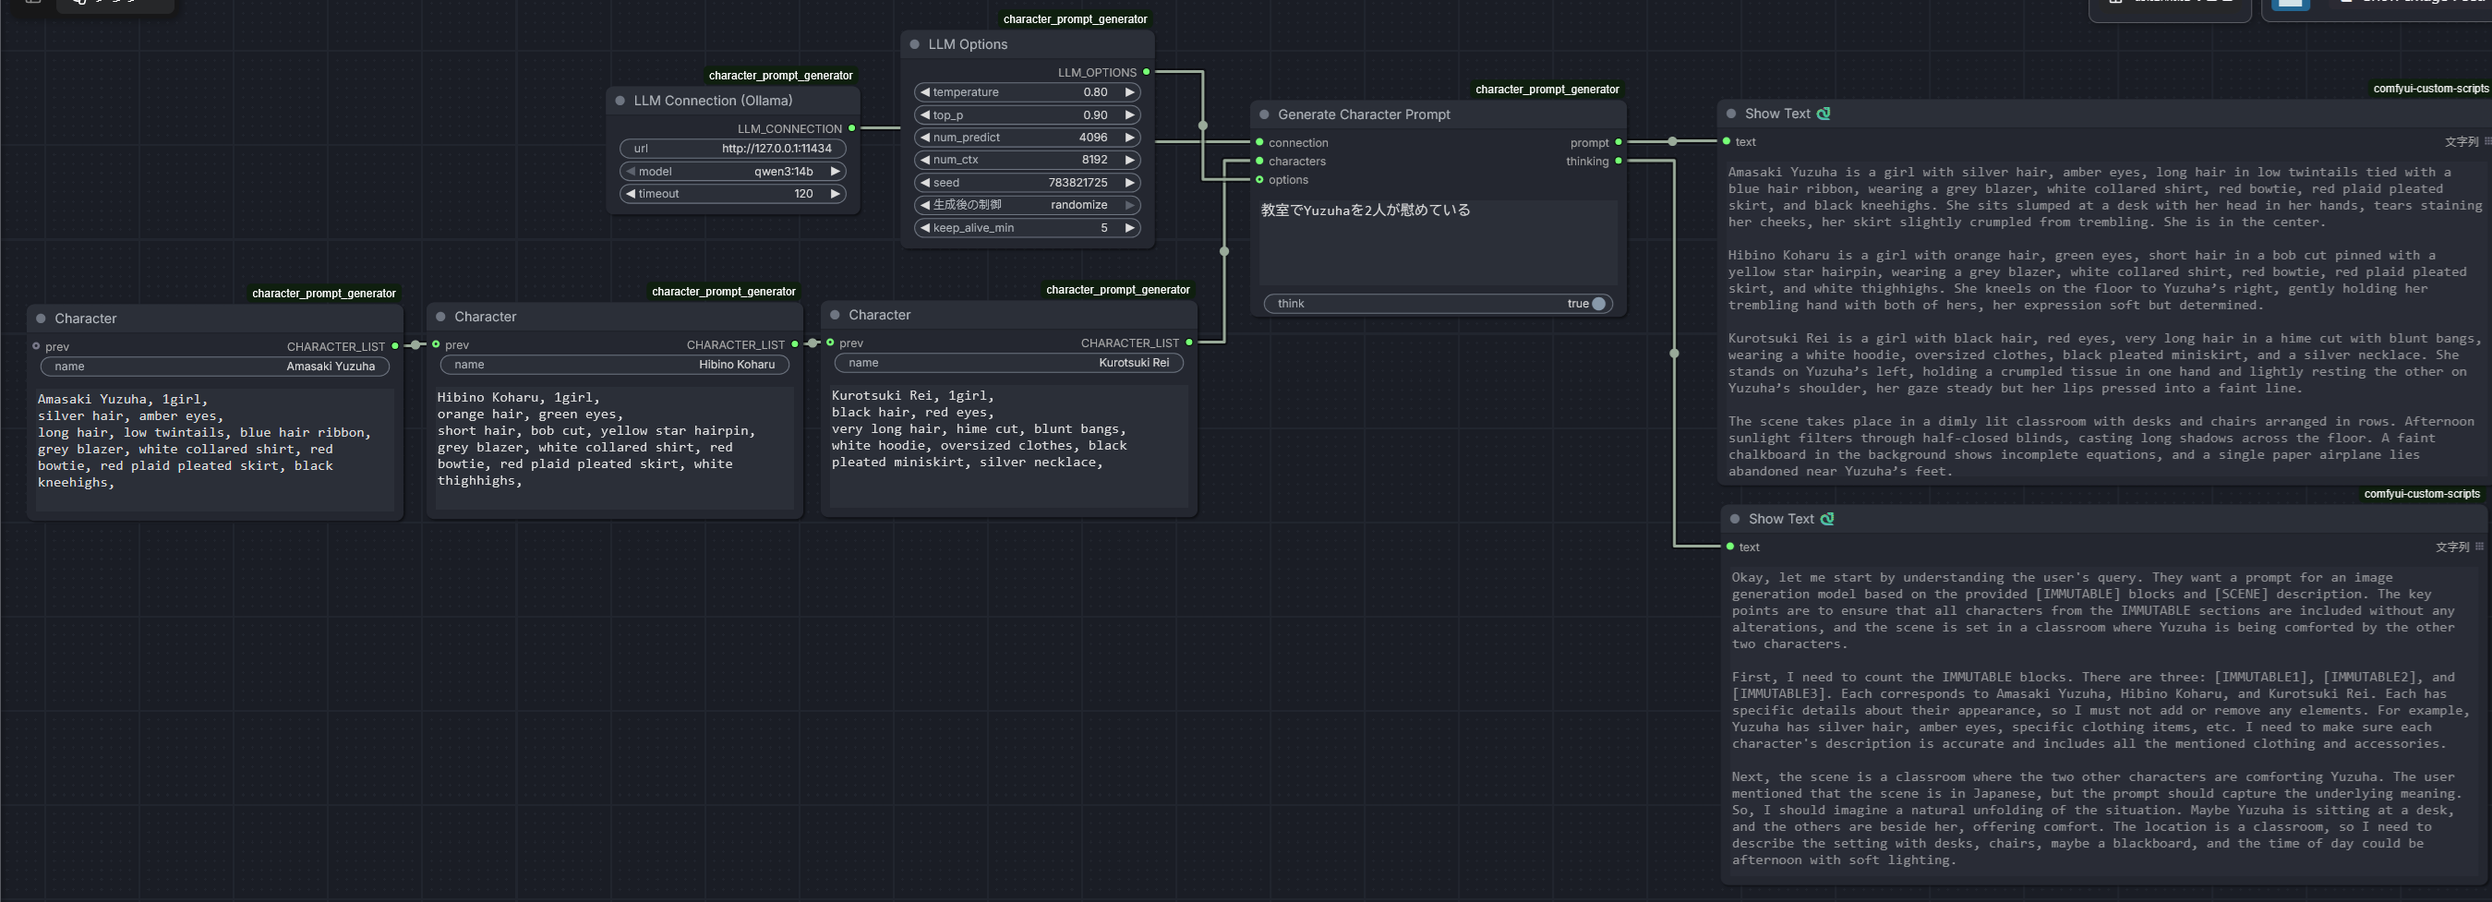
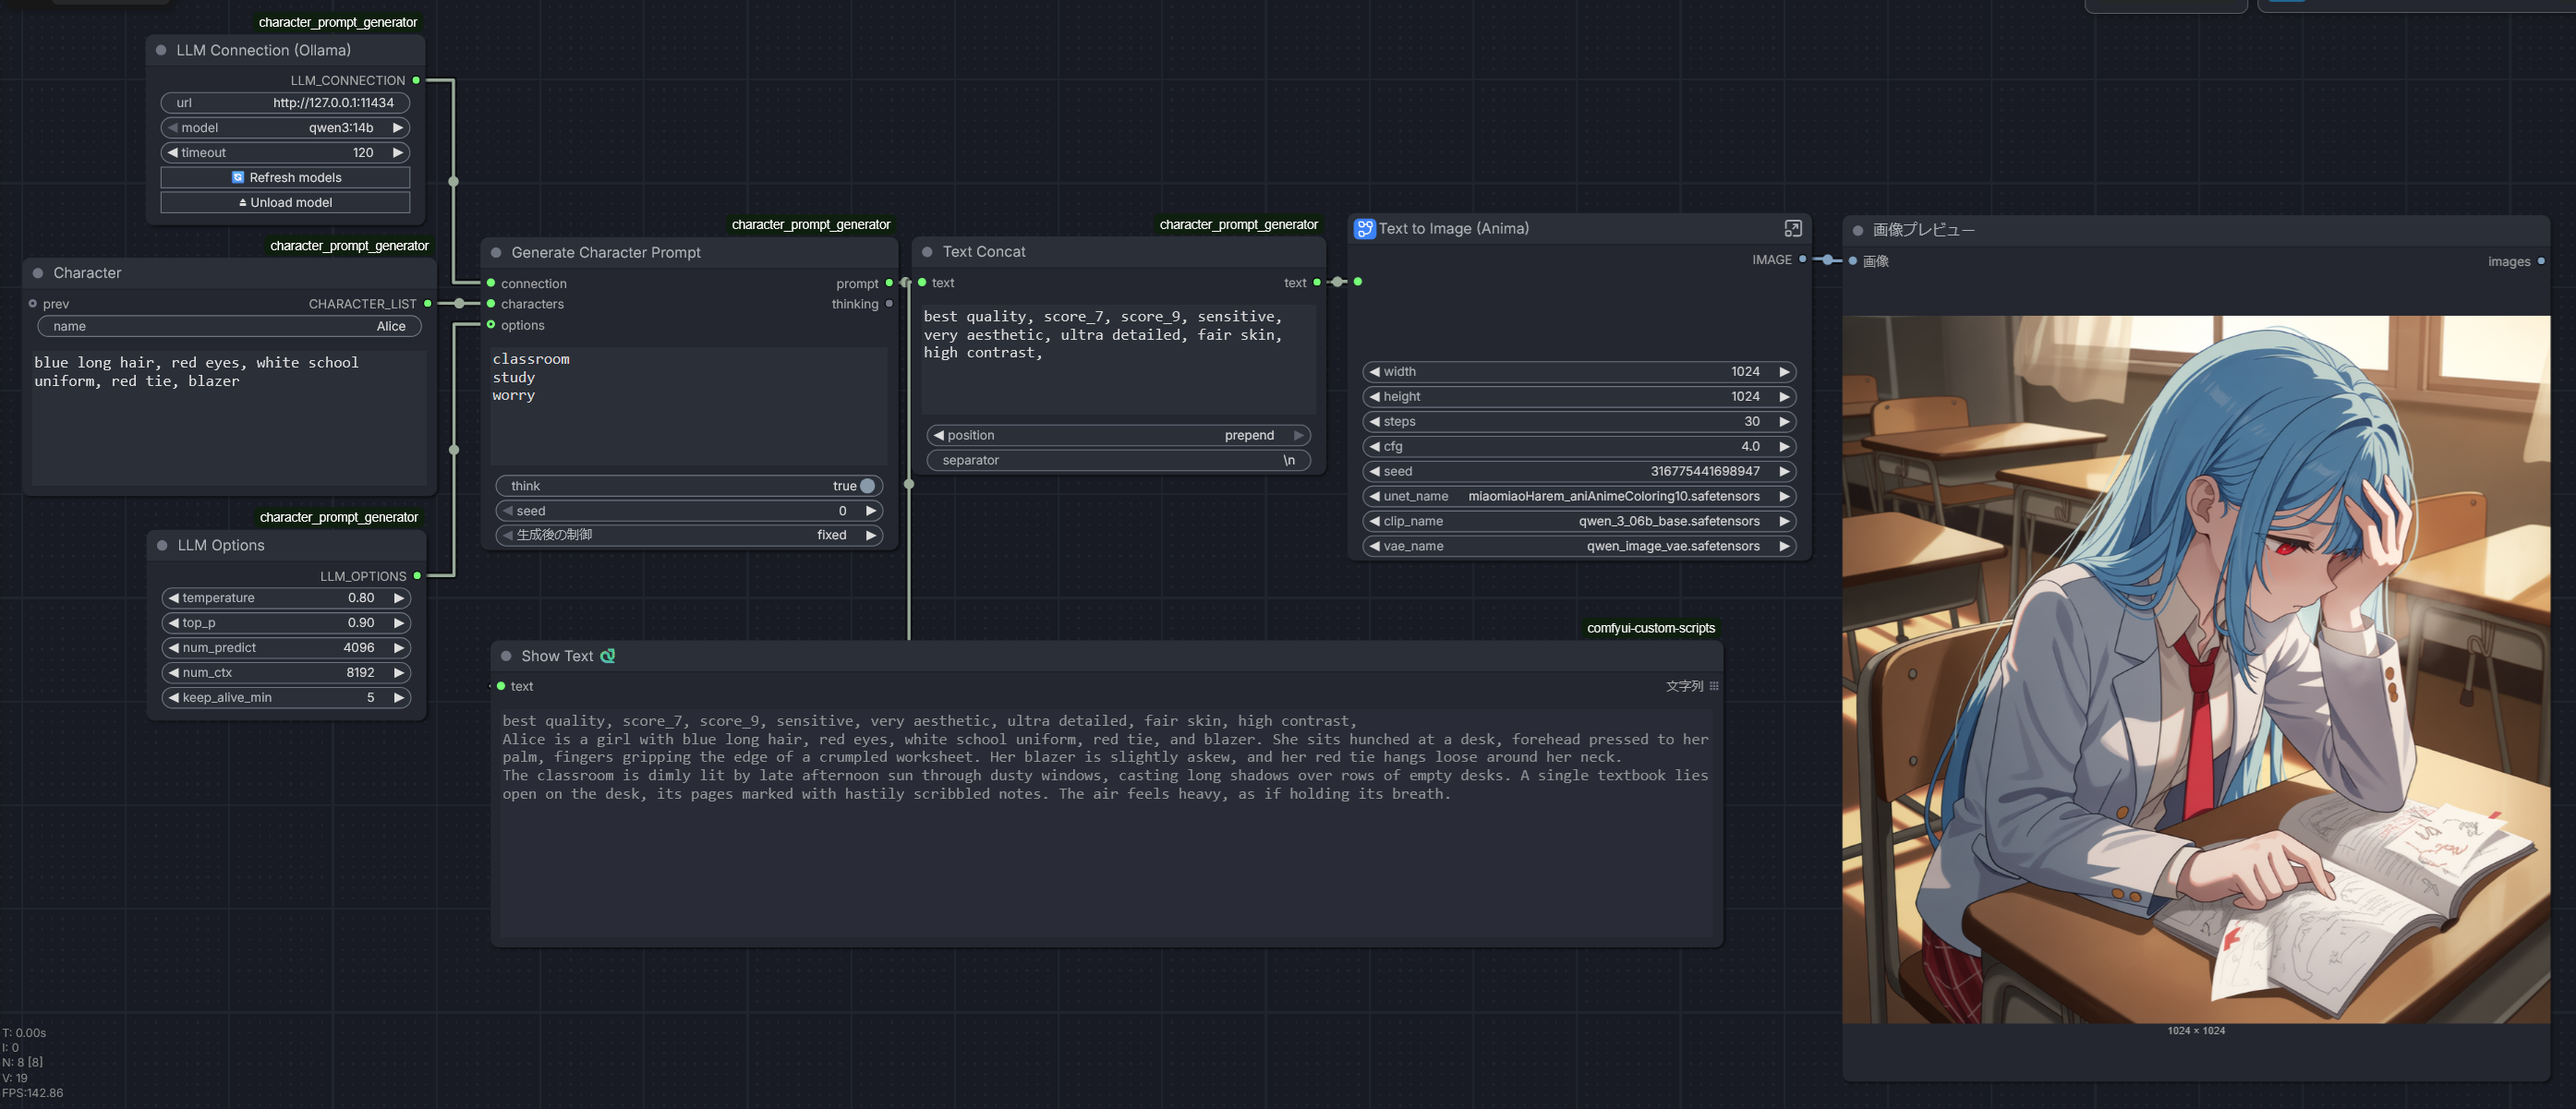
add text concat

diff --git a/nodes.py b/nodes.py
@@ -1,5 +1,4 @@
 import json
-import random
 import re
 import urllib.error
 import urllib.parse
@@ -104,7 +103,6 @@ class CPGLLMOptions:
                 # think有効時は思考トークンもこの枠を消費するため大きめを既定に
                 "num_predict": ("INT", {"default": 4096, "min": 1, "max": 65536}),
                 "num_ctx": ("INT", {"default": 8192, "min": 512, "max": 262144}),
-                "seed": ("INT", {"default": 0, "min": 0, "max": MAX_SEED, "control_after_generate": True}),
                 "keep_alive_min": ("INT", {"default": 5, "min": 0, "max": 1440}),
             }
         }
@@ -113,13 +111,12 @@ class CPGLLMOptions:
     FUNCTION = "build"
     CATEGORY = CATEGORY
 
-    def build(self, temperature, top_p, num_predict, num_ctx, seed, keep_alive_min):
+    def build(self, temperature, top_p, num_predict, num_ctx, keep_alive_min):
         return ({
             "temperature": temperature,
             "top_p": top_p,
             "num_predict": num_predict,
             "num_ctx": num_ctx,
-            "seed": seed,
             "keep_alive_min": keep_alive_min,
         },)
 
@@ -156,6 +153,9 @@ class CPGGenerate:
                 "characters": ("CHARACTER_LIST",),
                 "scene": ("STRING", {"multiline": True, "default": ""}),
                 "think": ("BOOLEAN", {"default": True}),
+                # seedはOptionsではなくここに置く。ウィジェット値は定数としてキャッシュ判定に
+                # 乗るので、fixedならLLMを呼び直さず、randomizeなら毎回再生成される
+                "seed": ("INT", {"default": 0, "min": 0, "max": MAX_SEED, "control_after_generate": True}),
             },
             "optional": {
                 "options": ("LLM_OPTIONS",),
@@ -167,15 +167,7 @@ class CPGGenerate:
     FUNCTION = "generate"
     CATEGORY = CATEGORY
 
-    @classmethod
-    def IS_CHANGED(cls, options=None, **kwargs):
-        # Options未接続時はseedを毎回ランダムにするため常に再実行。
-        # 接続時はOptions側のseed (control_after_generate) に委ねる。
-        if options is None:
-            return float("nan")
-        return 0.0
-
-    def generate(self, connection, characters, scene, think, options=None):
+    def generate(self, connection, characters, scene, think, seed, options=None):
         if not connection.get("model"):
             raise RuntimeError("No model selected on the LLM Connection node.")
         if not characters:
@@ -187,7 +179,6 @@ class CPGGenerate:
                 "top_p": 0.9,
                 "num_predict": 4096,
                 "num_ctx": 8192,
-                "seed": random.randint(0, MAX_SEED),
                 "keep_alive_min": 5,
             }
 
@@ -216,7 +207,7 @@ class CPGGenerate:
                 "top_p": options["top_p"],
                 "num_predict": options["num_predict"],
                 "num_ctx": options["num_ctx"],
-                "seed": options["seed"],
+                "seed": seed,
             },
         }
 
@@ -241,6 +232,36 @@ class CPGGenerate:
                 "Increase num_predict on the LLM Options node, or turn think off."
             )
         return (content, thinking.strip())
+
+
+class CPGTextConcat:
+    @classmethod
+    def INPUT_TYPES(cls):
+        return {
+            "required": {
+                "text": ("STRING", {"forceInput": True}),
+                "added_text": ("STRING", {"multiline": True, "default": ""}),
+                "position": (["append", "prepend"], {}),
+                "separator": ("STRING", {"default": ", "}),
+            }
+        }
+
+    RETURN_TYPES = ("STRING",)
+    RETURN_NAMES = ("text",)
+    FUNCTION = "concat"
+    CATEGORY = CATEGORY
+
+    def concat(self, text, added_text, position, separator):
+        # 1行ウィジェットでは改行を直接入力できないため、\n と \t を解釈する
+        separator = separator.replace("\\n", "\n").replace("\\t", "\t")
+        # 片方が空ならセパレータを挟まずそのまま返す
+        if not text:
+            return (added_text,)
+        if not added_text:
+            return (text,)
+        if position == "prepend":
+            return (f"{added_text}{separator}{text}",)
+        return (f"{text}{separator}{added_text}",)
 
 
 # ---------------------------------------------------------------------------
@@ -290,6 +311,7 @@ NODE_CLASS_MAPPINGS = {
     "CPG_LLMOptions": CPGLLMOptions,
     "CPG_Character": CPGCharacter,
     "CPG_Generate": CPGGenerate,
+    "CPG_TextConcat": CPGTextConcat,
 }
 
 NODE_DISPLAY_NAME_MAPPINGS = {
@@ -297,4 +319,5 @@ NODE_DISPLAY_NAME_MAPPINGS = {
     "CPG_LLMOptions": "LLM Options",
     "CPG_Character": "Character",
     "CPG_Generate": "Generate Character Prompt",
+    "CPG_TextConcat": "Text Concat",
 }

diff --git a/README.md b/README.md
@@ -39,7 +39,7 @@ A ComfyUI custom node that uses a local LLM (Ollama) to build image generation p
    - **Character**: Input `name` and `attributes`. For multiple characters, chain additional Character nodes via the `prev` slot.
    - **Generate Character Prompt**: Enter the scene description in `scene`.
    - **Output (`prompt`)**: Connect the output to text encoding nodes (e.g., CLIP Text Encode).
-3. (Optional) To fix prompt output reproducibility, attach **LLM Options** and set `seed` to `fixed`.
+3. To keep the same prompt while re-rolling the image generation (e.g. fixing the prompt and varying only Anima's seed), set `seed` on the **Generate Character Prompt** node to `fixed` — the cached prompt is reused without calling the LLM again.
 
 ## Troubleshooting
 
